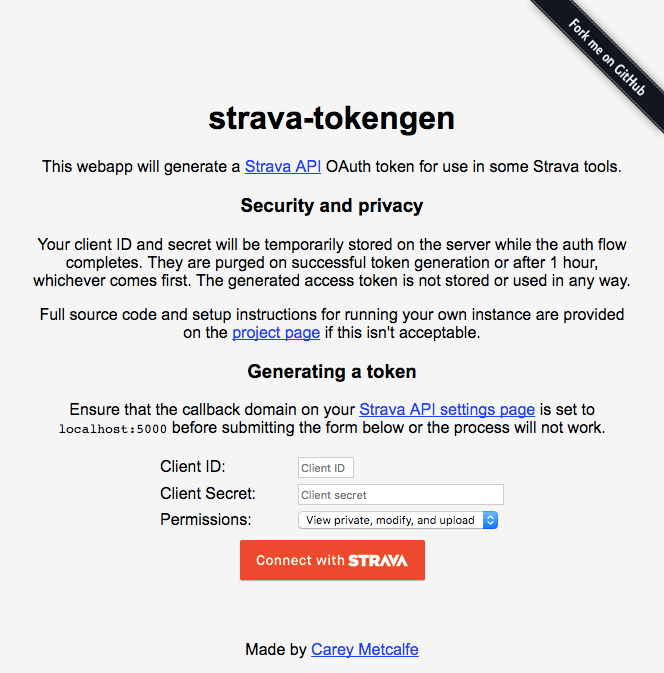
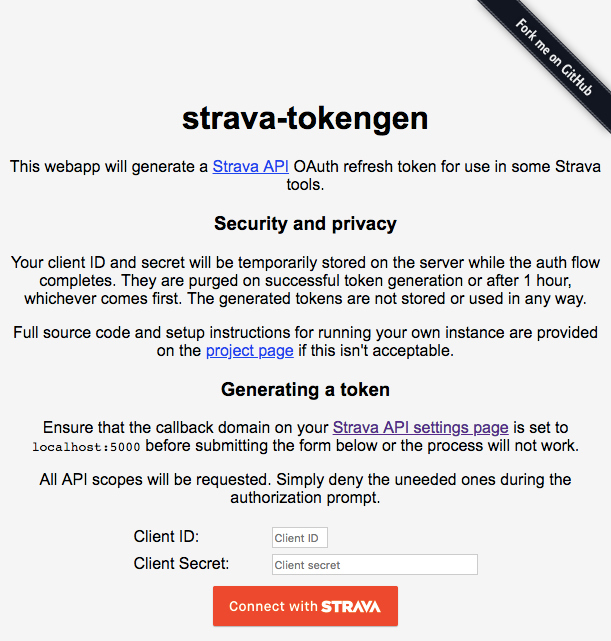
Support the new Strava OAuth flow
See https://developers.strava.com/docs/oauth-updates for details

Changed region(s): [[0.0, 0.156, 0.9951, 0.5616], [0.0622, 0.5928, 0.9329, 0.9984], [0.7774, 0.0, 1.0, 0.2184]]

diff --git a/strava_tokengen/templates/index.html b/strava_tokengen/templates/index.html
@@ -3,14 +3,14 @@
     <p>
       This webapp will generate a
       <a href="http://strava.github.io/api/v3/oauth">Strava API</a>
-      OAuth token for use in some Strava tools.
+      OAuth refresh token for use in some Strava tools.
     </p>
 
     <h3>Security and privacy</h3>
     <p>
       Your client ID and secret will be temporarily stored on the server while the auth flow
       completes. They are purged on successful token generation or after 1 hour, whichever
-      comes first. The generated access token is not stored or used in any way.
+      comes first. The generated tokens are not stored or used in any way.
     </p>
     <p>
       Full source code and setup instructions for running your own instance are provided on
@@ -25,6 +25,9 @@
       is set to <code>{{ domain }}</code> before submitting the form below or the process
       will not work.
     </p>
+    <p>
+      All API scopes will be requested. Simply deny the uneeded ones during the authorization prompt.
+    </p>
     <form method="post" action="/connect">
       <table><tbody>
         <tr>
@@ -34,17 +37,6 @@
         <tr>
           <td><label for="client_secret">Client Secret: </label></td>
           <td><input id="client_secret" name="client_secret" type="password" placeholder="Client secret"></td>
-        </tr>
-        <tr>
-          <td><label for="scope">Permissions: </label></td>
-          <td>
-            <select id="scope" name="scope">
-              <option value="public">Public</option>
-              <option value="view_private">View private</option>
-              <option value="write">Modify and upload</option>
-              <option value="view_private,write" selected>View private, modify, and upload</option>
-            </select>
-          </td>
         </tr>
       </tbody></table>
       <input type="image" src="/static/btn_strava_connectwith_orange.png" alt="Connect with Strava"/>

diff --git a/strava_tokengen/templates/result.html b/strava_tokengen/templates/result.html
@@ -1,15 +1,22 @@
 {% extends 'base.html' %}
 {% block content %}
-  <p>Access token received from Strava.</p>
+  <p>Successfully authenticated with the Strava API</p>
 
-  <p>Your access token is:</p>
-  <pre>{{ token }}</pre>
+  <p>Your refresh token is:</p>
+  <code>{{ token }}</code>
+  <p>It is valid for the following scope(s):</p>
+  <code>{{ scopes }}</code>
 
   <p>
     Give it to applications when prompted. Be aware that doing so will give that
-    application access to your data on Strava.
+    application access to the above scopes of your Strava account.
   </p>
+
   <p>
-    Specifically, the application will be able to {{ scope }}.
+    Note that this is a refresh token, not an access token. In order to access
+    the Strava API, the refresh token needs to be used to generate a
+    short-lived access token. See
+    <a href="https://developers.strava.com/docs/authentication/#refresh-expired-access-tokens">the Strava API authentication docs</a>
+    for more information.
   </p>
 {% endblock %}

diff --git a/strava_tokengen/templates/error.html b/strava_tokengen/templates/error.html
@@ -1,6 +1,6 @@
 {% extends 'base.html' %}
 {% block content %}
-  <p>An error occured while getting the access token from Strava:</p>
+  <p>An error occured while attempting to authenticate with the Strava API:</p>
   <pre>{{ msg }}</pre>
 
   <p><a href="/">Try again?</a></p>

diff --git a/strava_tokengen/__init__.py b/strava_tokengen/__init__.py
@@ -17,6 +17,9 @@ __all__ = ["ConfigError", "run_server"]
 CONFIG_DIR = os.environ.get('XDG_CONFIG_HOME', os.path.join(os.environ['HOME'], '.config'))
 CONFIG_FILE = os.path.join(CONFIG_DIR, 'strava-tokengen.conf')
 
+ALL_SCOPES = ['read', 'read_all', 'profile:read_all', 'profile:write',
+              'activity:read', 'activity:read_all', 'activity:write']
+
 
 class ConfigError(ValueError):
     pass
@@ -40,31 +43,30 @@ class StravaTokenGen(object):
         return self.env.get_template('index.html').render(domain=self.callback_domain)
 
     @cherrypy.expose
-    def connect(self, scope, client_id, client_secret, **_):
+    def connect(self, client_id, client_secret, **_):
         """Store OAuth values on the session and redirect to the auth url"""
-        cherrypy.session['scope'] = scope
         cherrypy.session['client_id'] = client_id
         cherrypy.session['client_secret'] = client_secret
 
         # Validate inputs
-        if not all((scope, client_id, client_secret)):
+        if not all((client_id, client_secret)):
             raise cherrypy.HTTPRedirect("/")
 
         redirect_uri = "http://{}/auth".format(self.callback_domain)
-        auth_url = Client().authorization_url(scope=scope,
+        auth_url = Client().authorization_url(scope=ALL_SCOPES,
                                               client_id=client_id,
-                                              redirect_uri=redirect_uri)
+                                              redirect_uri=redirect_uri,
+                                              approval_prompt="force")
         raise cherrypy.HTTPRedirect(auth_url)
 
     @cherrypy.expose
-    def auth(self, code=None, error=None, **_):
+    def auth(self, code=None, scope=None, error=None, **_):
         """Handle the auth callback from Strava"""
-        scope = cherrypy.session.get('scope')
         client_id = cherrypy.session.get('client_id')
         client_secret = cherrypy.session.get('client_secret')
 
         # Protect against invalid session
-        if None in (scope, client_id, client_secret):
+        if None in (client_id, client_secret):
             raise cherrypy.HTTPRedirect("/")
 
         # Bad response from Strava
@@ -77,27 +79,17 @@ class StravaTokenGen(object):
                 msg = "{}: {}".format(msg, error)
             return self.env.get_template('error.html').render(msg=msg)
 
-        token = Client().exchange_code_for_token(code=code,
-                                                 client_id=client_id,
-                                                 client_secret=client_secret)
-        # Expire current session
+        tokens = Client().exchange_code_for_token(code=code,
+                                                  client_id=client_id,
+                                                  client_secret=client_secret)
+        refresh_token = tokens['refresh_token']
+        scopes = ", ".join(scope.split(","))
+
+        # Expire current session to stop storing the client id/secret
         cherrypy.lib.sessions.expire()
-        return self.env.get_template('result.html').render(token=token,
-                                                           scope=string_for_scope(scope))
 
-def string_for_scope(scope):
-    """Return an explanation of the token scope"""
-    temp = []
-    if "view_private" in scope:
-        temp.append("view private activities and data within privacy zones")
-    if "write" in scope:
-        if temp:
-            temp.append(", as well as")
-        temp.append("modify activities and upload on your behalf")
-    if temp:
-        return " ".join(temp)
-    return "view public activities (excluding data within privacy zones)"
-
+        return self.env.get_template('result.html').render(token=refresh_token,
+                                                           scopes=scopes)
 
 def create_default_config(sample_conf):
     """Create a default config file template"""

diff --git a/setup.py b/setup.py
@@ -9,13 +9,12 @@ setup(name="strava-tokengen",
       license="MPLv2",
       classifiers=[
           "Programming Language :: Python :: 3",
-          "Programming Language :: Python :: 3.3",
           "Programming Language :: Python :: 3.4",
           "Programming Language :: Python :: 3.5",
           "Programming Language :: Python :: 3.6",
       ],
       packages=["strava_tokengen"],
       package_data={"strava_tokengen": ["strava-tokengen.conf", "templates/*", "static/*"]},
-      install_requires=["setuptools", "CherryPy>=11.1.0,<12.0.0.", "Jinja2>=2.9.6,<3.0.0", "stravalib>=0.6.6,<1.0.0"],
+      install_requires=["setuptools", "CherryPy>=17.4.0,<18.0.0.", "Jinja2>=2.10.0,<3.0.0", "stravalib>=0.10.2,<1.0.0"],
       entry_points={'console_scripts': ["strava-tokengen=strava_tokengen:run_server"]}
 )

diff --git a/README.md b/README.md
@@ -1,6 +1,6 @@
 strava-tokengen
 ===============
-A simple OAuth token generator for the Strava API.
+A simple OAuth token generator for the Strava API (updated for the new refresh token pattern).
 
 Useful for generating tokens for command line applications and other non-web applications.
 
@@ -15,10 +15,10 @@ Setup
 - On first run it will create a default config file and exit.
 - Open the config file and change the options as required.
 - Run `strava-tokengen` with a completed config and visit the site it serves in a browser.
-- Fill in the client id and client secret for your API application and choose the permissions the
-  generated token will have.
-- Click the "connect with Strava" button to generate an API token.
-- Use the API token to access the [Strava API] from any other applications.
+- Fill in the client id and client secret for your API application.
+- Click the "connect with Strava" button to start the authorization flow.
+- On Strava, choose your required scopes and authorize the application.
+- Use the API refresh token to access the [Strava API] from any other applications.
 
 
 Licence
